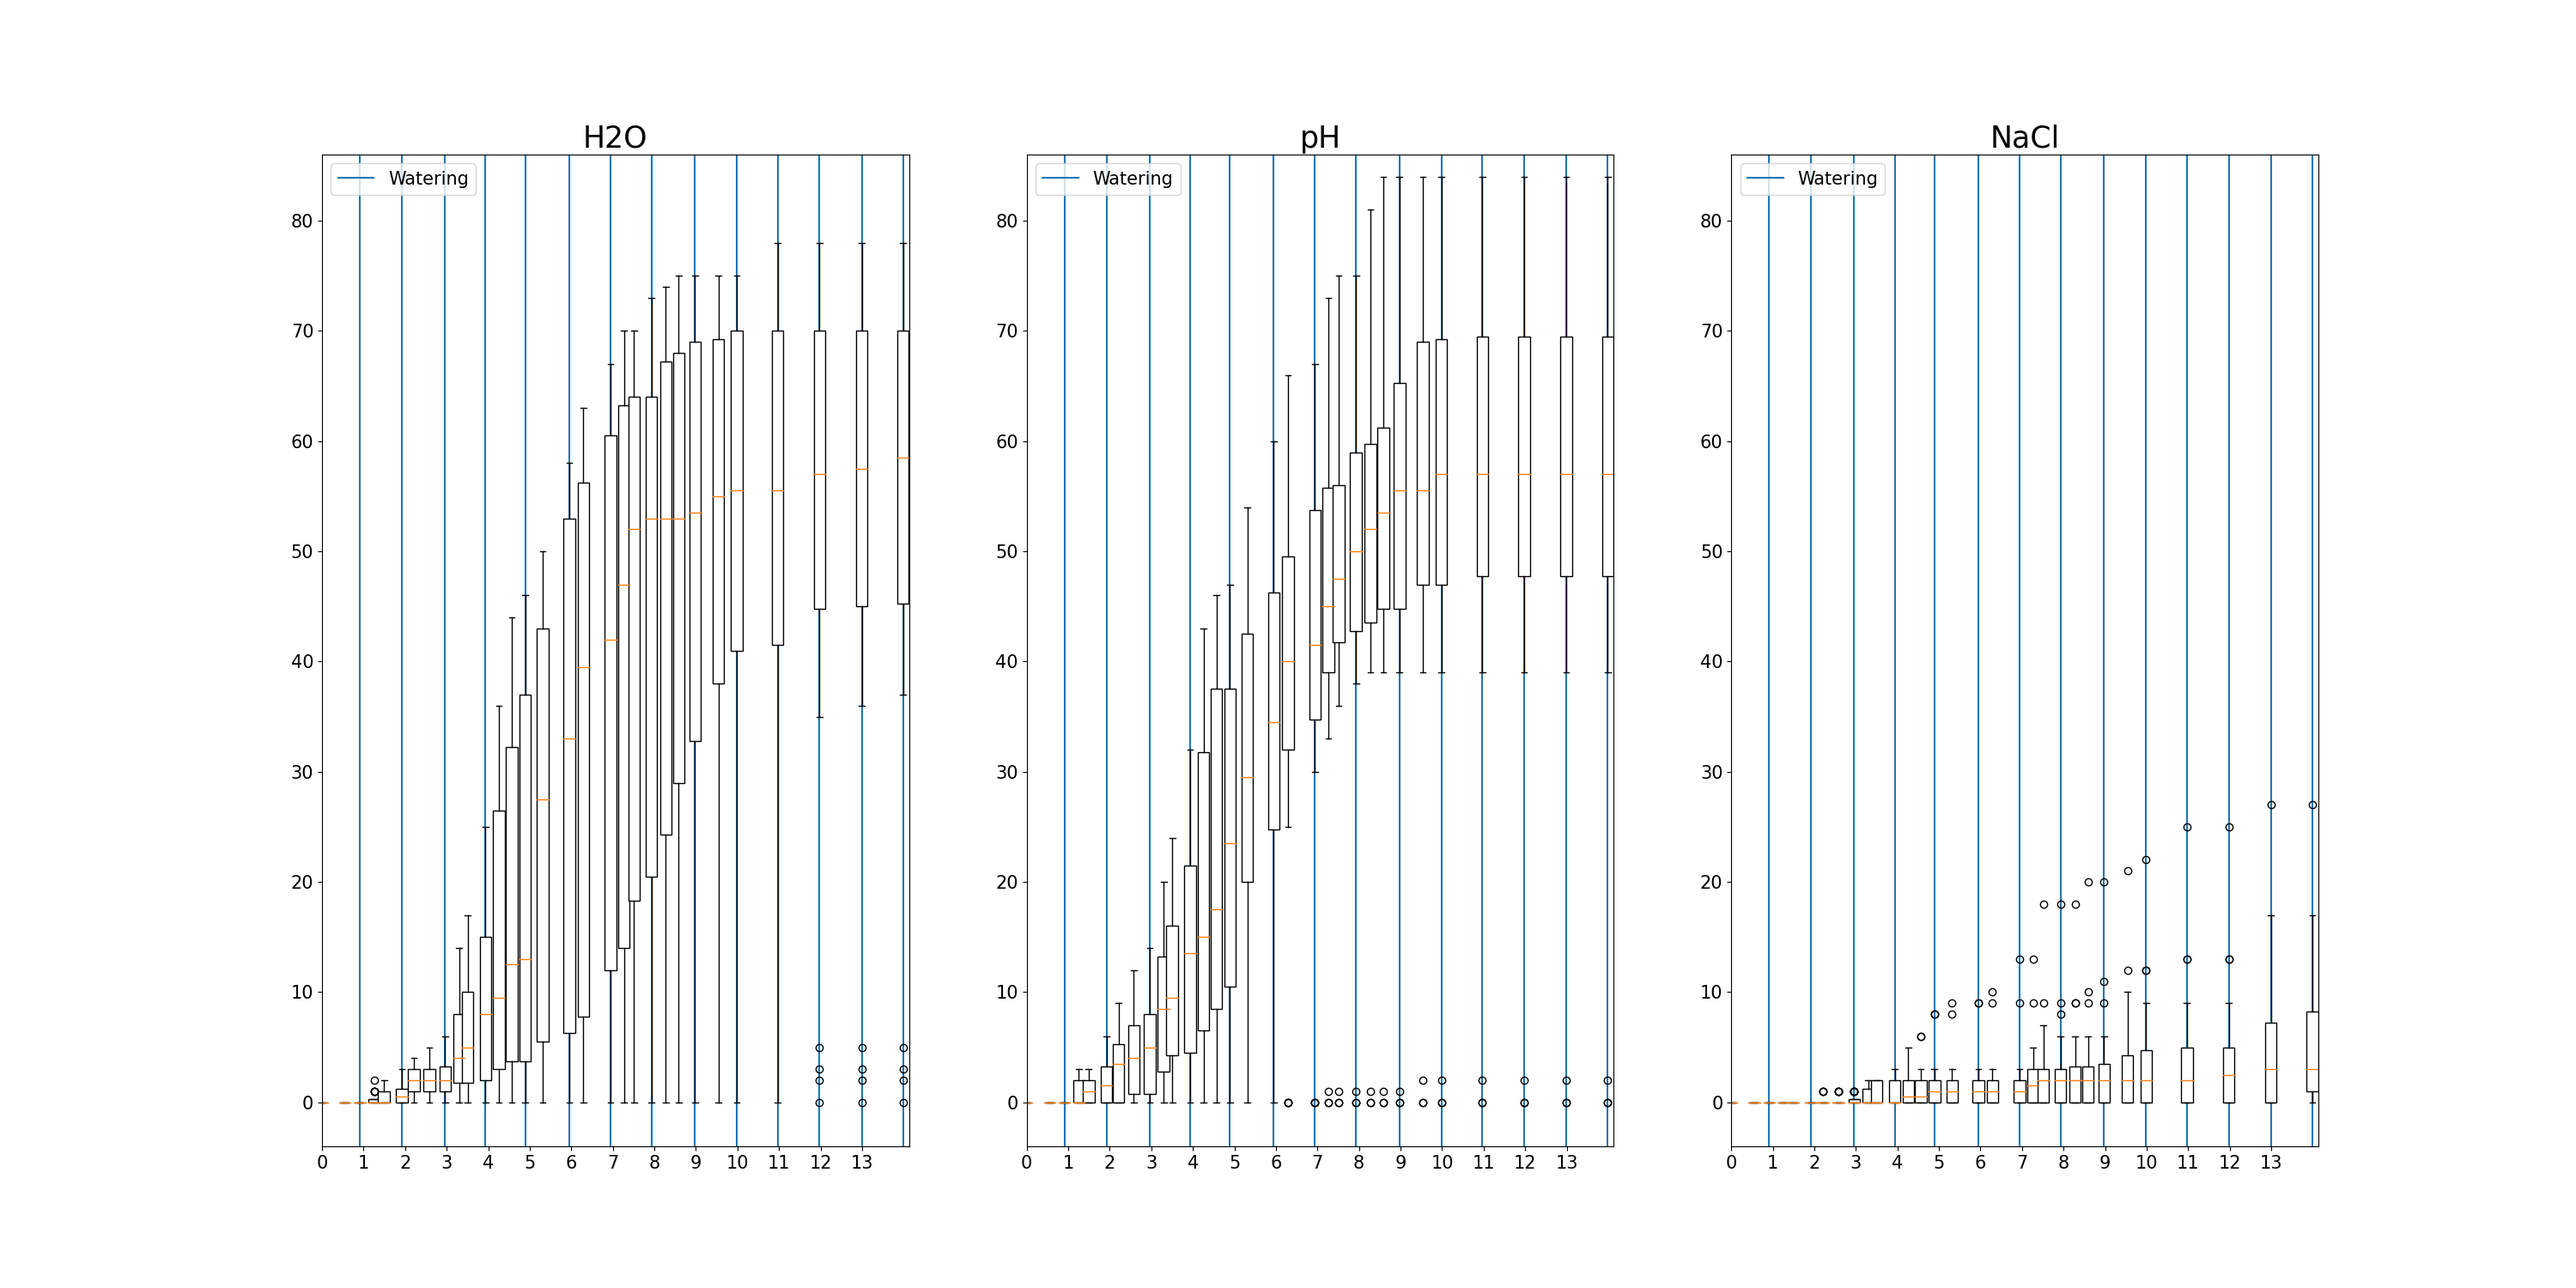
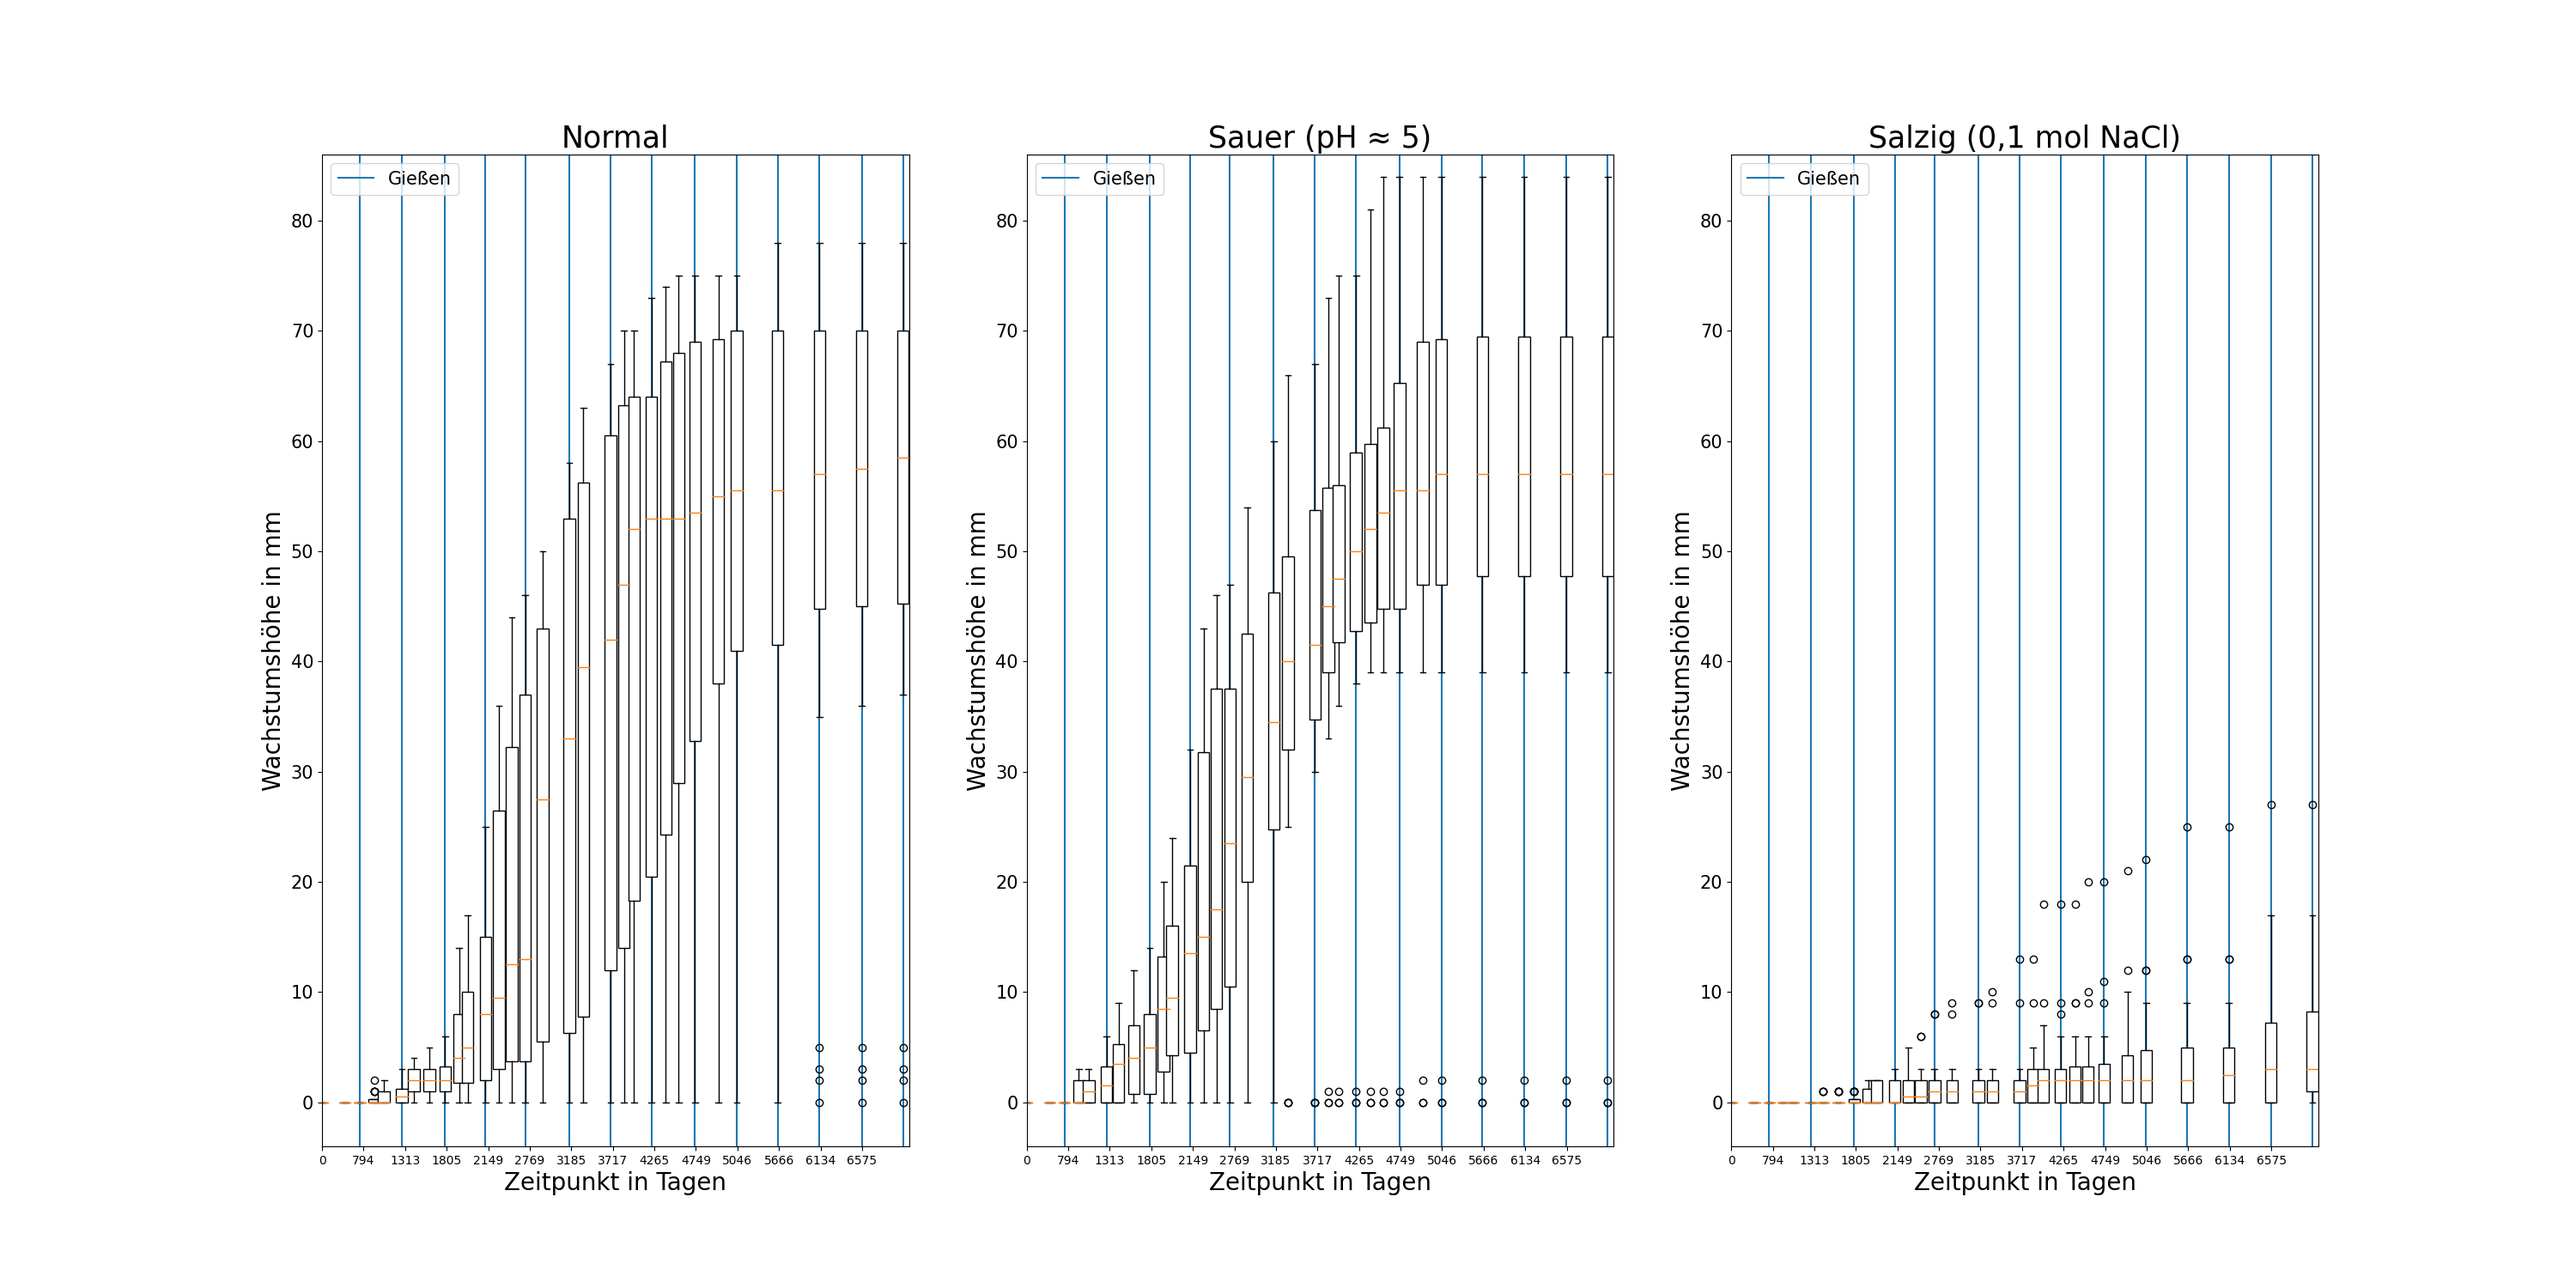
Analyse.py: Added plotting of t-test-values -> Results/t_tests.png Changed all labels to german language to be unified in my seminar paper

diff --git a/Analyse.py b/Analyse.py
@@ -3,7 +3,7 @@ from matplotlib import pyplot as plot
 INIT_DATE = 30, 1, 2023, 10, 27
 CSV_DELIM = ";"
 PATH_RESULTS = "Results/"
-MEDIUM_EQUIV = {"H2O": "Normal", "pH": "Acidic", "NaCl": "Salty"}
+MEDIUM_EQUIV = {"H2O": ["Normal", "Normal"], "pH": ["Acidic", "Sauer (pH ≈ 5)"], "NaCl": ["Salty", "Salzig (0,1 mol NaCl)"]}
 MEDIUMS = list(MEDIUM_EQUIV.keys())
 SAMPLES_PER_MED = 20
 M_COUNT = None  # gets value in getMeasurements()
@@ -17,21 +17,32 @@ def main():
     makeRcompatible(data)  # writes a file for a script from the course
 
     normalData = data[MEDIUMS[0]][1]
-    print("Degrees of Freedom: %d" % (2 * len(normalData) - 2))
+    print("Degrees of Freedom: %d" % (2 * SAMPLES_PER_MED - 2))
     all_accepted = []
-    for medium in data:
-        t_value, hypTestRes, accepted = t_test(normalData, data[medium][1][-len(normalData):], (1.646, 1.962))
+    plot.clf()
+    fig, subplots = plot.subplots(1, len(data)-1)
+    fig.set_size_inches(30, 15)
+    for medium, subP in zip(MEDIUMS[1:], subplots):
+        subP.set_title(MEDIUM_EQUIV[medium][1], fontdict={"fontsize": 25})
+        subP.set_xlabel("t-Wert", fontsize=20)
+        subP.set_ylabel("T(t)", fontsize=20)
+        for x, y in zip(subP.get_yticklabels(), subP.get_xticklabels()):
+            x.set_fontsize(15)
+            y.set_fontsize(15)
+        t_value, hypTestRes, accepted = t_test(normalData, data[medium][1][-len(normalData):], subP, (1.687, 2.025))  # quantile values for alpha=5% from https://datatab.de/tutorial/tabelle-t-verteilung
         print("mean t-value for %s and %s: %f\n%s" % (MEDIUMS[0], medium, t_value, hypTestRes))
         all_accepted += [accepted]
 
+    plot.savefig("%st_tests.png" % PATH_RESULTS)
+
     with open("Results/t_tests.csv", "w") as f:
-        f.write("H$_0$;%s;%s\n" % tuple(MEDIUMS[1:]))
-        f.write("E(H2O) =  E(M);%.2f\\%% akzeptiert;%.2f\\%% akzeptiert\n" % (all_accepted[1][0], all_accepted[2][0]))
-        f.write("E(H2O) $<$= E(M);%.2f\\%% akzeptiert;%.2f\\%% akzeptiert\n" % (all_accepted[1][1], all_accepted[2][1]))
-        f.write("E(H2O) $>$= E(M);%.2f\\%% akzeptiert;%.2f\\%% akzeptiert\n" % (all_accepted[1][2], all_accepted[2][2]))
+        f.write("H0;%s;%s\n" % tuple(MEDIUMS[1:]))
+        f.write("E(Normal) \\ \\ = E(M);%.2f\\%% akzeptiert;%.2f\\%% akzeptiert\n" % (all_accepted[0][0], all_accepted[1][0]))
+        f.write("E(Normal) $<$= E(M);%.2f\\%% akzeptiert;%.2f\\%% akzeptiert\n" % (all_accepted[0][1], all_accepted[1][1]))
+        f.write("E(Normal) $>$= E(M);%.2f\\%% akzeptiert;%.2f\\%% akzeptiert\n" % (all_accepted[0][2], all_accepted[1][2]))
 
 
-def t_test(dataM1: "measurements Medium 1", dataM2: "measurements Medium 2", t_dist_value=(None, None)) -> (float, str, "list of accepted percentages"):
+def t_test(dataM1: "measurements Medium 1", dataM2: "measurements Medium 2", plot, t_dist_value=(None, None)) -> (float, str, "list of accepted percentages"):
     dataM1 = [dataM1[i*SAMPLES_PER_MED: (i+1)*SAMPLES_PER_MED] for i in range(len(dataM1) // SAMPLES_PER_MED)]
     dataM2 = [dataM2[i*SAMPLES_PER_MED: (i+1)*SAMPLES_PER_MED] for i in range(len(dataM2) // SAMPLES_PER_MED)]
     t_values = []
@@ -45,15 +56,29 @@ def t_test(dataM1: "measurements Medium 1", dataM2: "measurements Medium 2", t_d
                 t_values += [0]
             else:
                 t_values += [(m * n / (m + n)) ** .5 * (arithM1 - arithM2) / (weightedVariance ** .5)]
+
+    def t_dist(t, gammafuncValue1, gammafuncValue2, degOfFreedom):
+        from math import pi
+        return gammafuncValue1 / ((degOfFreedom * pi)**.5 * gammafuncValue2) * (1 + t**2/degOfFreedom)**-(degOfFreedom+1)/2
+
     hypTest = "Es werden nur Messungen betrachtet, bei denen min. ein Medium Höhen größer 0 aufweist\n"
-    accepted = ["not tested", "not tested", "not tested"]
+    accepted = ["nicht getestet", "nicht getestet", "nicht getestet"]
     if t_dist_value != (None, None):
         quant95, quant975 = t_dist_value
+        plot.axvline(quant95, color="red", label="95%-Quantil")
+        plot.axvline(-quant95, color="red")
+        plot.axvline(quant975, color="green", label="97,5%-Quantil")
+        plot.axvline(-quant975, color="green")
+        plot.legend(loc="upper left", fontsize=15)
+        gamma1, gamma2 = 2.772432e+16, 6.402374e+15  # values for 19.5 ((38+1)/2) and 19 (38/2) from https://miniwebtool.com/de/gamma-function-calculator/
+        plotTrange = range(round(min(t_values+[-quant975])*1000 - 500), round(max(t_values+[quant975])*1000 + 500), 10)
+        plot.plot([t/1000 for t in plotTrange], [t_dist(t/1000, gamma1, gamma2, 38) for t in plotTrange], marker="", color="black")
         if quant975:
             percentage = 0  # how much percent of the measurements contradict the hypothesis
             for v in t_values:
                 percentage += v > quant975
                 percentage += v < -quant975
+                plot.plot(v, t_dist(v, gamma1, gamma2, 38), marker="o", color="blue")
             percentage = 100 * percentage / len(t_values)
             accepted[0] = 100-percentage
             hypTest += "E(X) = E(Y): in %.2f%% aller Messungen akzeptiert, in %.2f%% abgelehnt\n" % (100-percentage, percentage)
@@ -104,14 +129,16 @@ def plotBoxed(data: dict, outFileName: str) -> "saves plot as png":
     fig.set_size_inches(30, 15)
     for medium, subP in zip(data, plots):
         addWatering(subP)
-        subP.set_title(medium, fontdict={"fontsize": 25})
+        subP.set_xlabel("Zeitpunkt in Tagen", fontsize=20)
+        subP.set_ylabel("Wachstumshöhe in mm", fontsize=20)
+        subP.set_title(MEDIUM_EQUIV[medium][1], fontdict={"fontsize": 25})
         boxP = subP.boxplot(data[medium], positions=pos, widths=400, patch_artist=True)
         for box in boxP["boxes"]:
             box.set_facecolor("white")
         subP.set_xlim(0, pos[-1]+210)
         subP.set_ylim(-4, MAX_V + 2)
         subP.set_xticks([i for i in range(0, pos[-1], 60 * 24)])
-        subP.set_xticklabels([i // (60 * 24) for i in range(0, pos[-1], 60 * 24)], fontsize=15)
+        # subP.set_xticklabels([i // (60 * 24) for i in range(0, pos[-1], 60 * 24)], fontsize=15)
         for label in subP.get_yticklabels():
             label.set_fontsize(15)
         subP.legend(loc="upper left", fontsize=15)
@@ -144,7 +171,7 @@ def makeRcompatible(data: dict) -> "writes my_measurements.R":
         for medium in data:
             xy = sorted(zip(x[medium], y[medium]))
             for xi, yi in xy:
-                f.write("%s,%s,%s,%s\n" % (MEDIUM_EQUIV[medium], xi, yi, 2139315))
+                f.write("%s,%s,%s,%s\n" % (MEDIUM_EQUIV[medium][0], xi, yi, 2139315))
 
 
 def plotScattered(data: dict, outFileName: str) -> "saves plot as png":
@@ -174,7 +201,7 @@ def plotScattered(data: dict, outFileName: str) -> "saves plot as png":
 
     for i in range(2):
         subP = plot.subplot(121 + i)
-        subP.set_title(["median", "arithmetic mean"][i], fontdict={"fontsize": 25})
+        subP.set_title(["Mediane", "Arithmetische Mittelwerte"][i], fontdict={"fontsize": 25})
         plot.xlabel("Zeitpunkt in Tagen", fontsize=20)
         plot.ylabel("Wachstumshöhe in mm", fontsize=20)
         subP.set_xticks([i for i in range(0, MAX_X, 60 * 24)])
@@ -235,7 +262,7 @@ def relTime(dateTime: "dd.mm.yyyy, hh:mm") -> "int of minutes":  # for correct p
 def addWatering(plot) -> None:
     with open("Watering.csv") as f:
         f.readline()
-        label = "Watering"
+        label = "Gießen"
         for line in f:
             dateTime, _ = line.split(CSV_DELIM)
             plot.axvline(relTime(dateTime), label=label)
